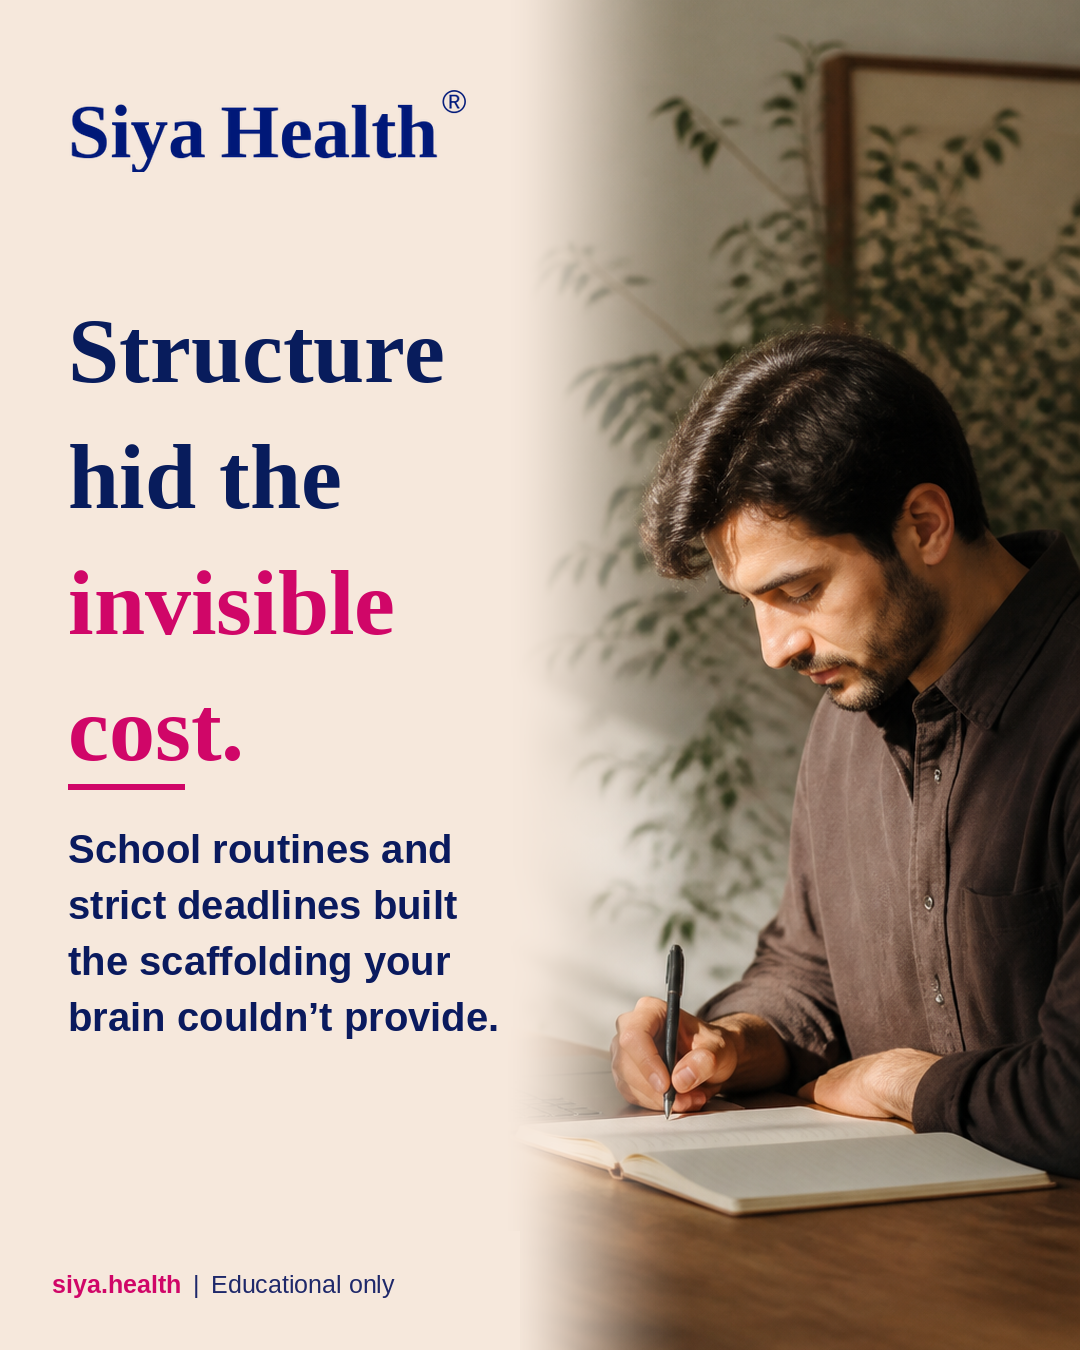
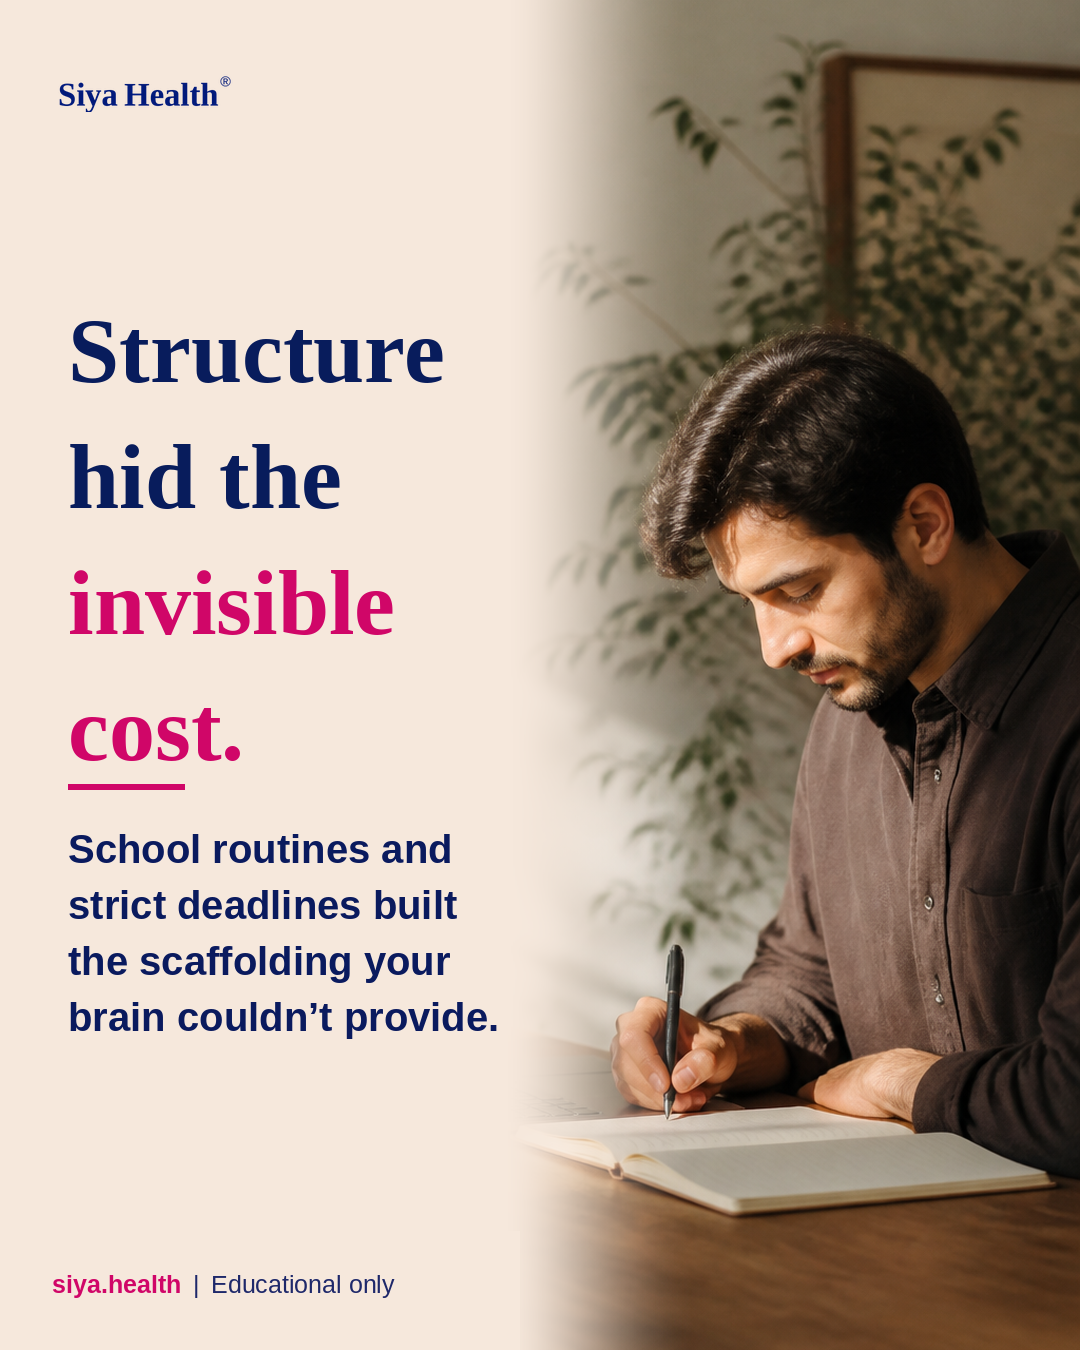
fix(brand): standardize Siya Health wordmark placement at x=58, y=72 across all Concept 1 slides

Changed region(s): [[0.0611, 0.0622, 0.4278, 0.1244]]

diff --git a/apps/siya-health/brand/scripts/compose_benchmark_static.py b/apps/siya-health/brand/scripts/compose_benchmark_static.py
@@ -183,13 +183,14 @@ def compose_benchmark(
     canvas = Image.composite(photo, canvas, mask)
     draw = ImageDraw.Draw(canvas)
 
-    # 3. Logo (Locked LOGO-PRIMARY at top-left ~92px height, left=68)
+    # 3. Logo Placement (x=58, y=72, size ~242x40 maintaining aspect ratio)
     logo = Image.open(logo_path).convert("RGBA")
-    target_h = 92
-    scale = target_h / logo.height
+    # Maintain aspect ratio to match approximate target box 242x40
+    scale = min(242 / logo.width, 40 / logo.height)
     logo_w = int(logo.width * scale)
-    logo_resized = logo.resize((logo_w, target_h), Image.Resampling.LANCZOS)
-    canvas.paste(logo_resized, (left_margin, 80), logo_resized)
+    logo_h = int(logo.height * scale)
+    logo_resized = logo.resize((logo_w, logo_h), Image.Resampling.LANCZOS)
+    canvas.paste(logo_resized, (58, 72), logo_resized)
 
     # 4. Headline Typography (Georgia Bold @ 92px, line_height 126px)
     h_font = resolve_font("display", 92)

diff --git a/apps/siya-health/brand/editorial-packs/AD-K-01-bandwidth-cliff/README.md b/apps/siya-health/brand/editorial-packs/AD-K-01-bandwidth-cliff/README.md
@@ -8,7 +8,7 @@
   - Canvas: 4:5 (`1080×1350px`)
   - Cream Background: `#F6E8DC` solid on left text column ($x=0\dots500\text{px}$)
   - Soft Organic Dissolve: $x=500\dots700\text{px}$ cleanly protecting the right-weighted subjects
-  - Logo: Canonical `LOGO-PRIMARY` lockup (`Siya Health®`) at `(x=68, y=80)`
+  - Logo: Locked `LOGO-PRIMARY` wordmark at `(x=58, y=72)`, maintaining original aspect ratio with approximate rendered size `242×40px`.
   - Headline: Georgia Bold @ `92px`, leading `126px`, starting at `y=300px`, left margin `x=68px`
   - Accent Words: Siya Magenta `#D00668`
   - Divider Rule: Solid magenta horizontal rule (`116px` width $\times$ `5px` height)
